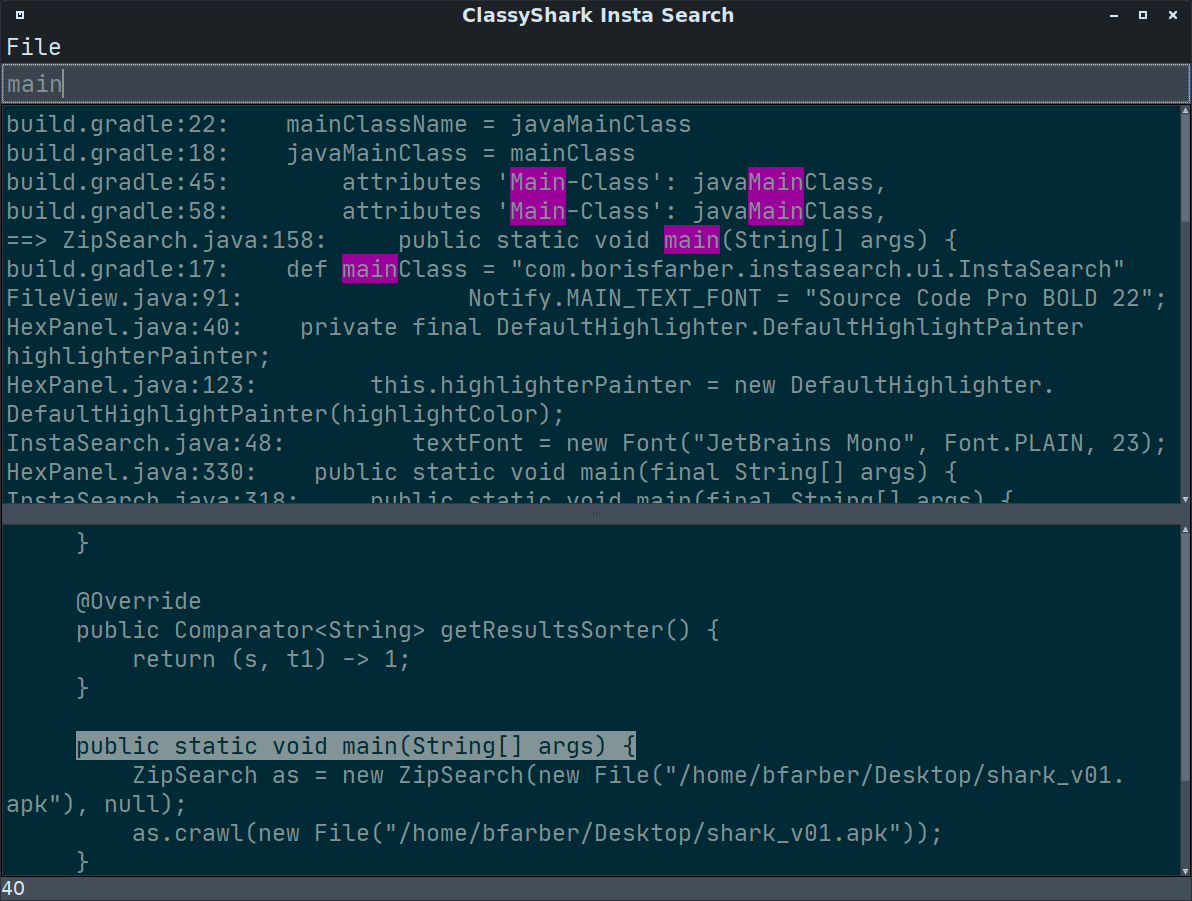
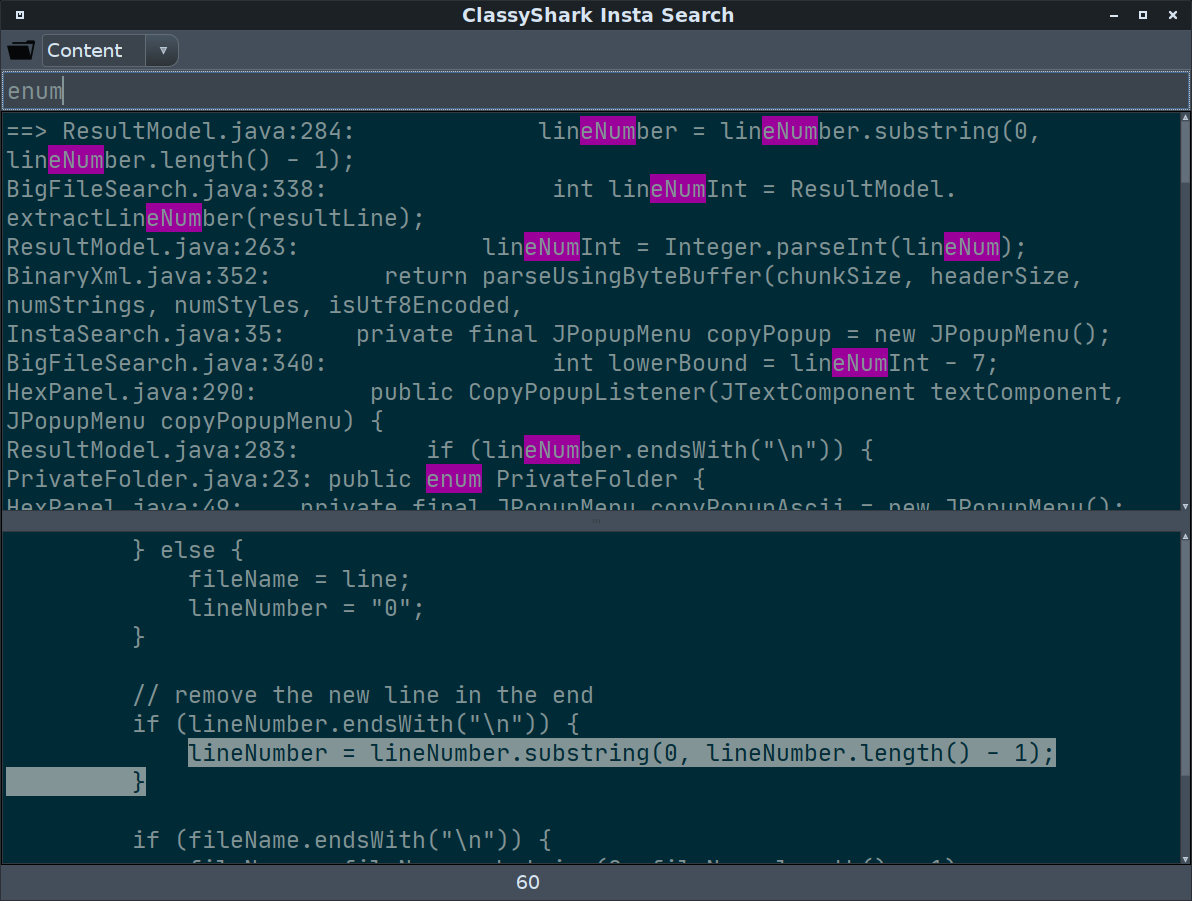
* Doc updates for the new toolbar UI

Changed region(s): [[0.0, 0.0311, 1.0, 0.9945], [0.9933, 0.1865, 1.0, 0.2486]]

diff --git a/src/main/java/com/borisfarber/instasearch/ui/InstaSearch.java b/src/main/java/com/borisfarber/instasearch/ui/InstaSearch.java
@@ -34,7 +34,7 @@
      private JTextPane previewTextPane;
      private JLabel resultCountLabel;
      private final JPopupMenu copyPopup = new JPopupMenu();
-     private Controller controller;
+     private final Controller controller;
 
      public static final Color BACKGROUND_COLOR = new Color(0x00, 0x2b, 0x36);
      public static final Color FOREGROUND_COLOR = new Color(0x83, 0x94, 0x96);
@@ -58,7 +58,7 @@
 
      public final void onFileDragged(final File file) {
          setTitle("ClassySearch - " + file.getName());
-         controller.onFileDragged(file);
+         controller.onFileOpened(file);
      }
 
      public void openFileFromToolbar() {

diff --git a/src/main/java/com/borisfarber/instasearch/contollers/Controller.java b/src/main/java/com/borisfarber/instasearch/contollers/Controller.java
@@ -76,10 +76,6 @@ public final class Controller implements DocumentListener {
         crawl(newFile);
     }
 
-    public void onFileDragged(File newFile) {
-        crawl(newFile);
-    }
-
     public void updateSearchMode(String searchMode) {
         this.searchMode = searchMode;
         crawl(currentFile);

diff --git a/src/main/java/com/borisfarber/instasearch/ui/Toolbar.java b/src/main/java/com/borisfarber/instasearch/ui/Toolbar.java
@@ -24,6 +24,8 @@ public class Toolbar extends JToolBar {
     private JButton openButton;
     private JComboBox searchModeCombo;
 
+    // TODO think of adding version
+
     public Toolbar(InstaSearch frame) {
         super();
         this.frame = frame;

diff --git a/README.md b/README.md
@@ -40,14 +40,10 @@ show the selected entry in the preview:
 
 Pressing Enter or double-clicking on an entry will open its own hex editor in a separate window.
 
-### File Menu
-When you click on File menu you will get the following:
-* Open - will open a file selection dialog to open a window. For a source folder InstaSearch 
-  will do a search inside files, while for a regular folder InstaSearch will do a file name search. 
+### Command toolbar
+* Open folder file
 
-* About - will show you the version
-
-* Exit - exits the InstaSearch (or press ALT + F4)
+* Select search type
 
 ### Command Line Arguments
 
